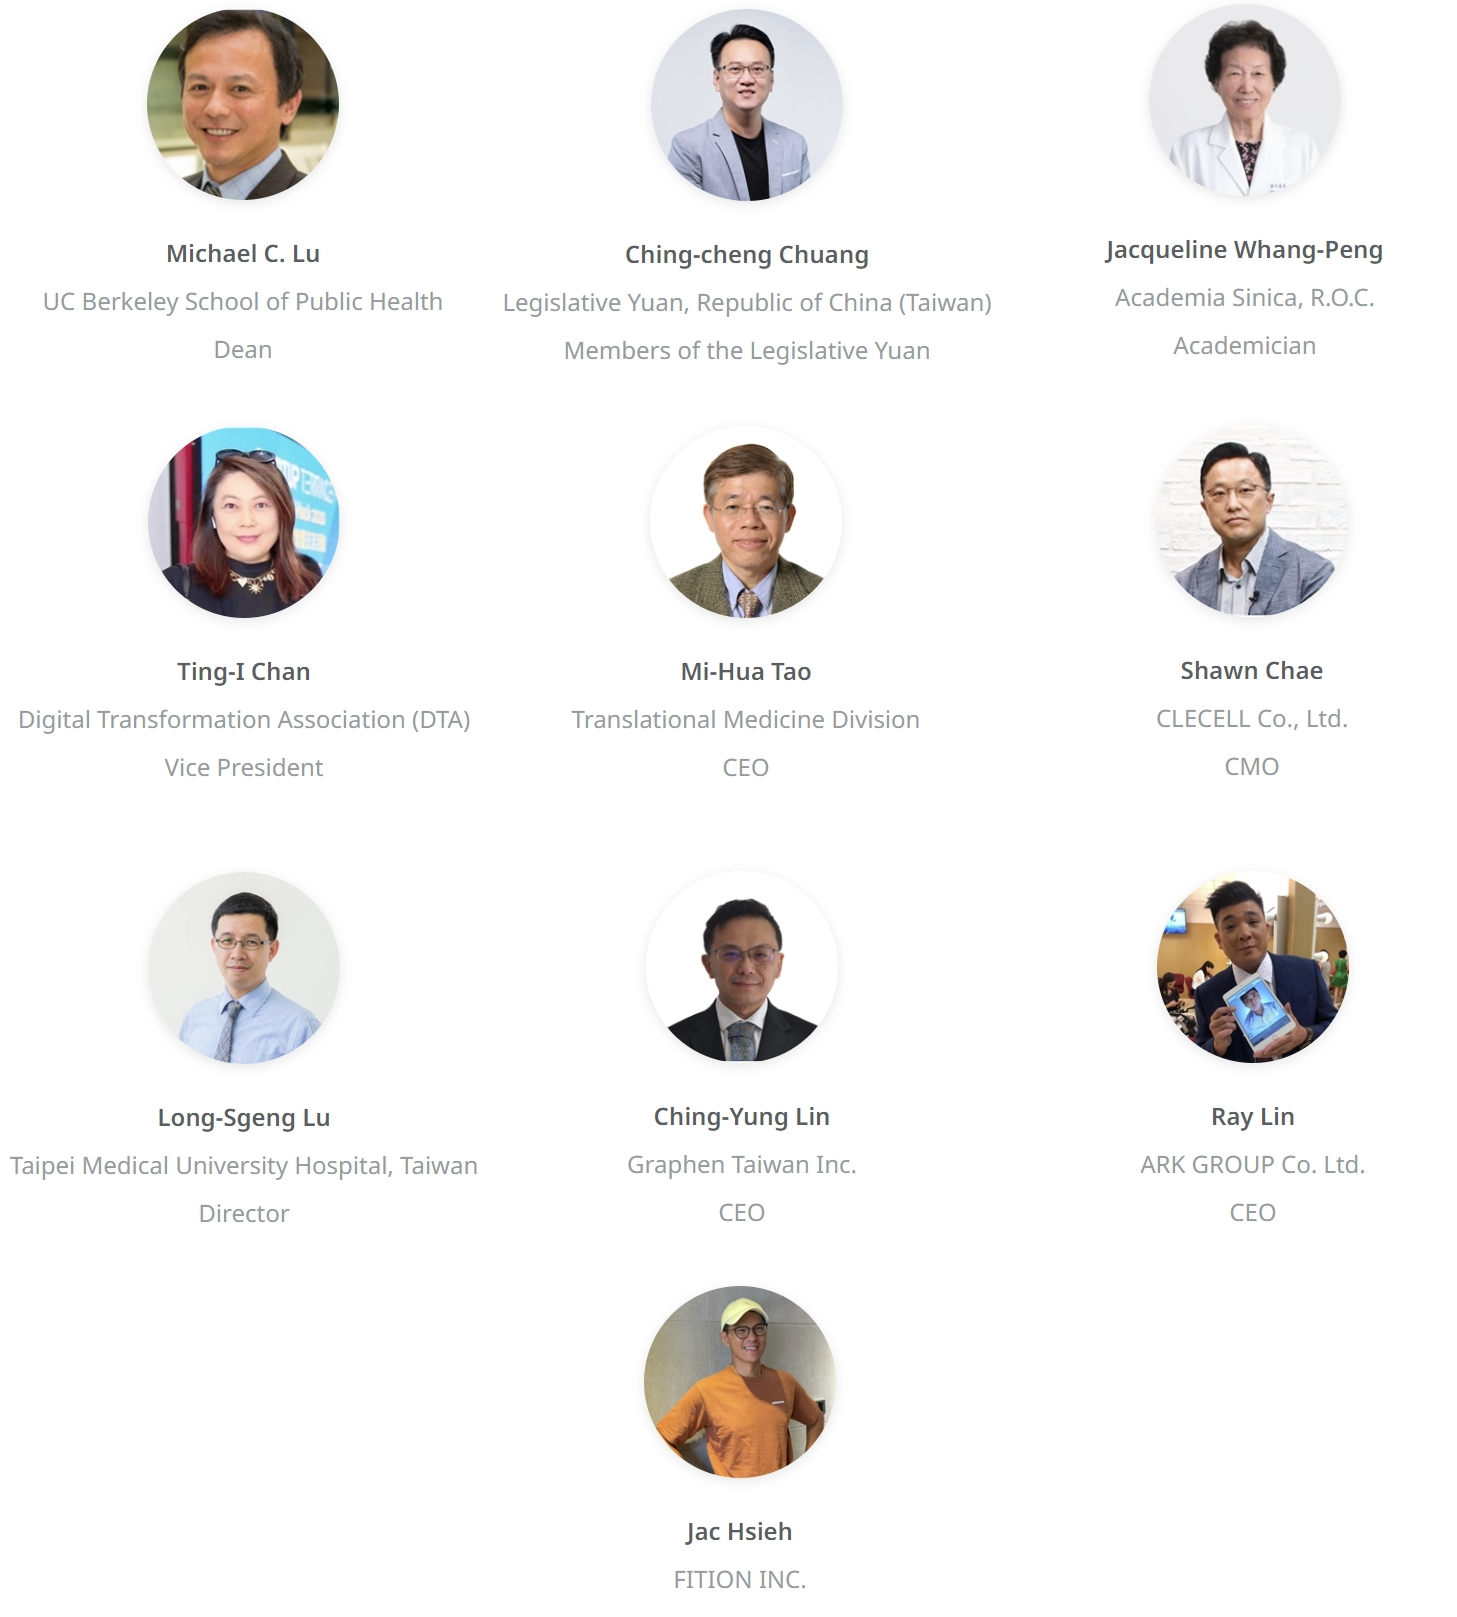
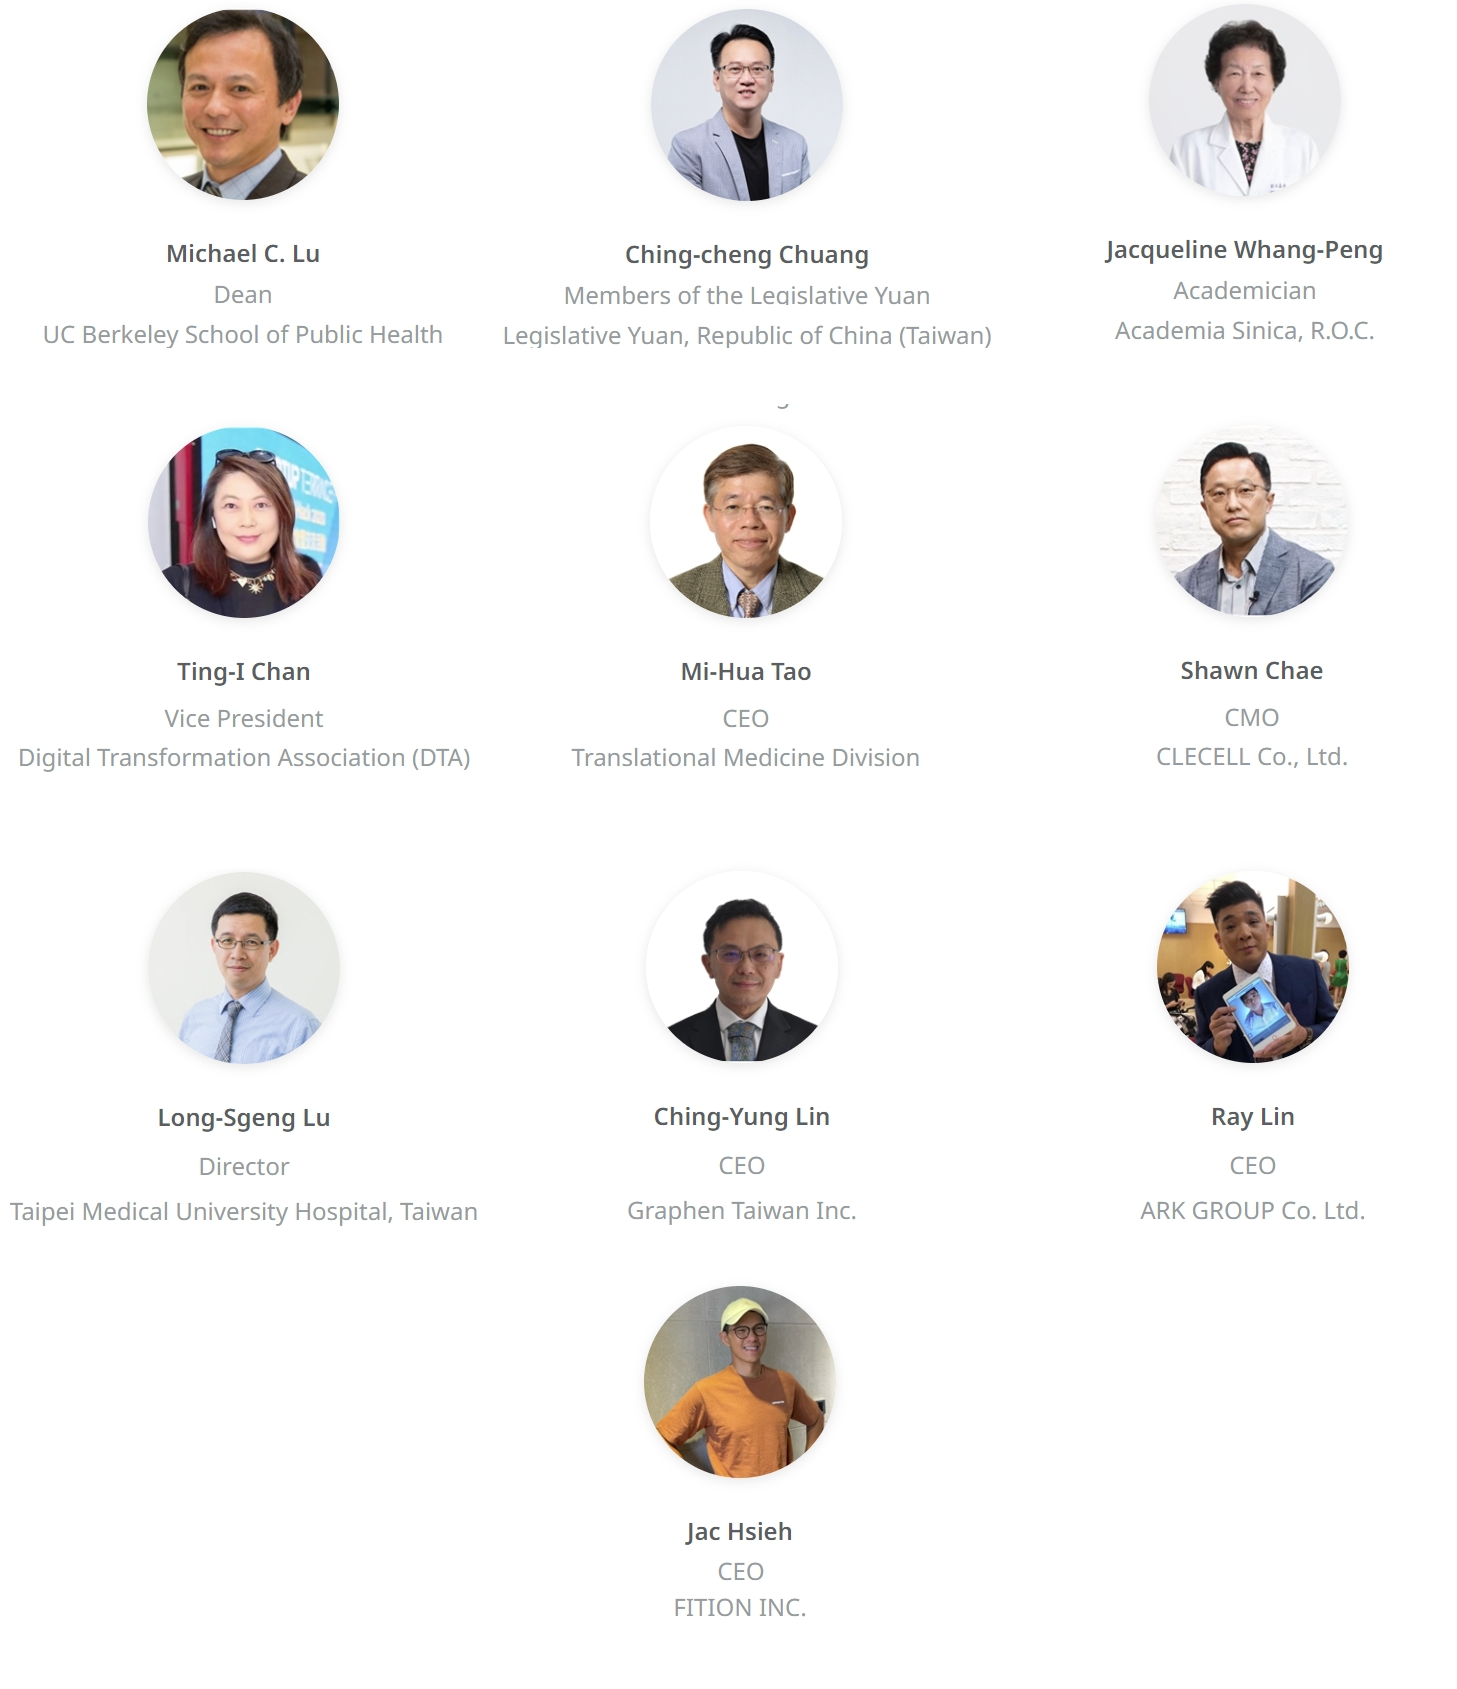
en struct

diff --git a/indexEN.html b/indexEN.html
@@ -219,7 +219,7 @@
 						<div class="boxes4" style="width: 70%">
 							<p style="margin:0px ;">
 
-								<br>
+
 								<span class="spker_name">Michael C. Lu</span>
 								<br>
 								<span class="spker_title">Dean</span>
@@ -240,7 +240,7 @@
 
 						<div class="boxes4" style="width: 70%">
 							<p style="margin:0px ;">
-								<br>
+
 								<span class="spker_name">Ching-cheng Chuang </span>
 								<br>
 								<span class="spker_title">Members of the Legislative Yuan</span>
@@ -260,7 +260,7 @@
 
 						<div class="boxes4" style="width: 70%">
 							<p style="margin:0px ;">
-								<br>
+
 								<span class="spker_name">Jacqueline Whang-Peng</span>
 								<br>
 								<span class="spker_title">Academician</span>
@@ -280,7 +280,7 @@
 
 						<div class="boxes4" style="width: 70%">
 							<p style="margin:0px ;">
-								<br>
+
 								<span class="spker_name">Ting-I Chan</span>
 								<br>
 								<span class="spker_title">Vice President</span>
@@ -315,7 +315,7 @@
 
 						<div class="boxes4" style="width: 70%">
 							<p style="margin:0px ;">
-								<br>
+
 								<span class="spker_name">Mi-Hua Tao</span>
 								<br>
 								<span class="spker_title">CEO</span>
@@ -336,7 +336,7 @@
 
 						<div class="boxes4" style="width: 70%">
 							<p style="margin:0px ;">
-								<br>
+
 								<span class="spker_name">Shawn Chae</span>
 								<br>
 								<span class="spker_title">CMO</span>
@@ -355,7 +355,7 @@
 
 						<div class="boxes4" style="width: 70%">
 							<p style="margin:0px ;">
-								<br>
+
 								<span class="spker_name">Long-Sgeng Lu</span>
 								<br>
 								<span class="spker_title">Director</span>
@@ -375,7 +375,7 @@
 
 						<div class="boxes4" style="width: 70%">
 							<p style="margin:0px ;">
-								<br>
+
 								<span class="spker_name">Ching-Yung Lin</span>
 								<br>
 								<span class="spker_title">CEO</span>
@@ -394,7 +394,7 @@
 
 						<div class="boxes4" style="width: 70%">
 							<p style="margin:0px ;">
-								<br>
+
 								<span class="spker_name">Ray Lin</span>
 								<br>
 								<span class="spker_title">CEO</span>
@@ -413,7 +413,7 @@
 
 						<div class="boxes4" style="width: 70%">
 							<p style="margin:0px ;">
-								<br>
+
 								<span class="spker_name">Jac Hsieh</span>
 								<br>
 								<span class="spker_title">CEO</span>
